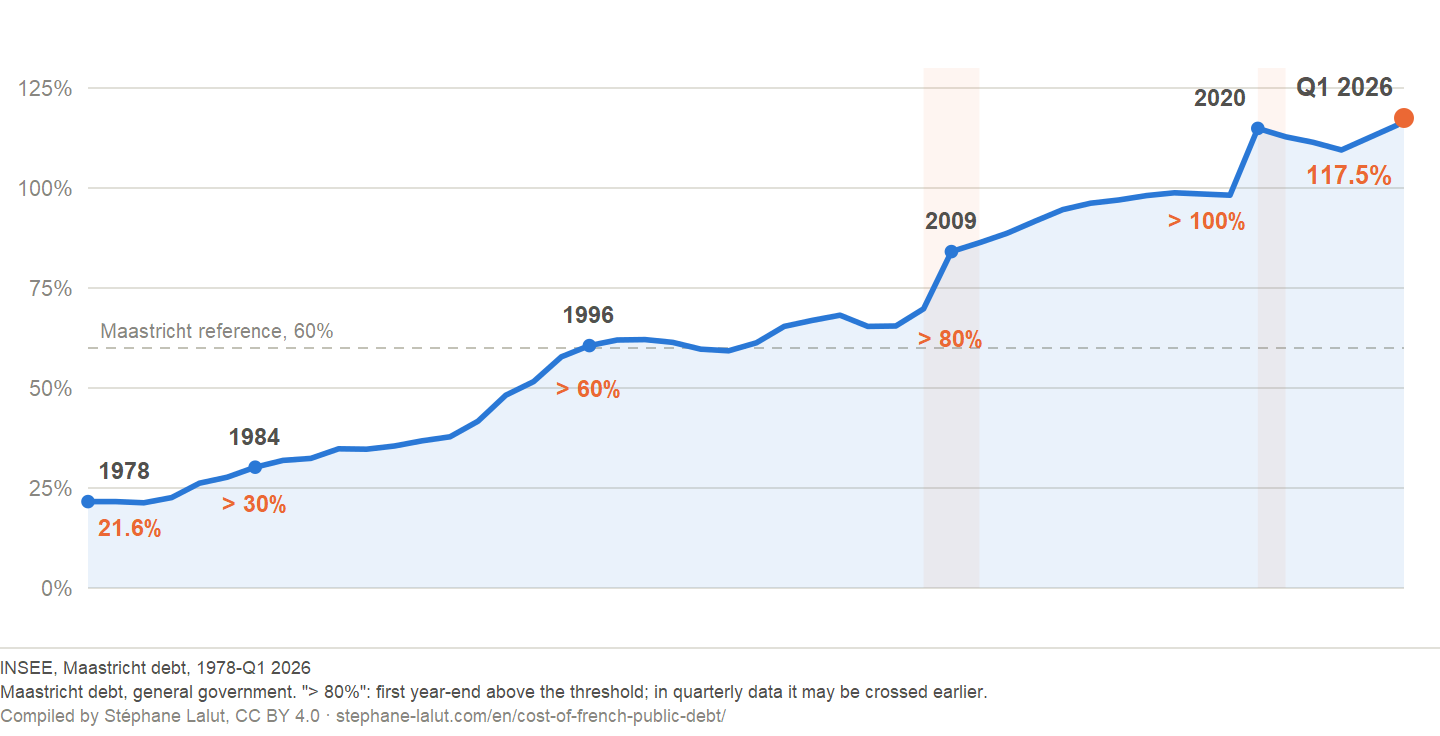
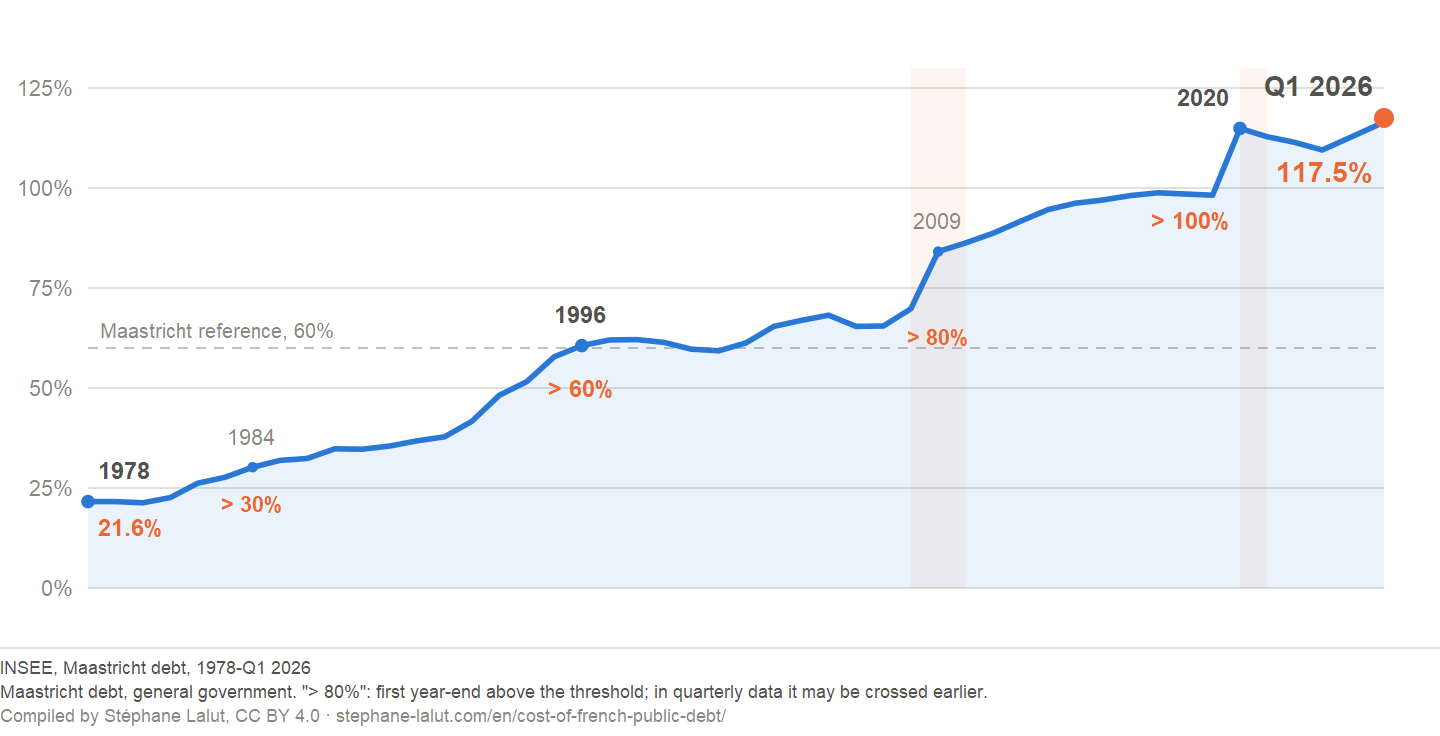
style(dette): lot deterministe de la direction artistique (onglets, jalons, marges)
Arbitrage PRO-20260928-DESIGN-GRAPHES-02 : ce qui se corrige sans voir,
la mission complete restant a ouvrir en session avec navigateur.

- ONGLETS : la regle horizontale structure la composition. Le cartouche,
  le bas des onglets et le repere de MAJ partagent la meme ligne de base ;
  l'onglet actif MORD la regle (margin-bottom -1px et bordure basse de la
  couleur du fond) au lieu de flotter au-dessus ; bordure allegee, moins
  d'effet « bouton ».
- FIGURE LONGUE : hierarchie des jalons. Dominent le depart, le seuil de
  Maastricht, le seuil de 100 % et le dernier point ; les deux autres
  restent lisibles en retrait. Le critere est le SEUIL, pas l'annee : il
  tient quand la serie s'allonge.
- Les bandes de crise passent APRES l'aplat : dessous, elles viraient au
  gris (vu au rendu).
- Marge droite : la valeur d'arrivee ne touche plus le bord.
- FIGURE DE MARCHE : ecart minimum garanti entre les deux etiquettes de
  fin, « au-dessus / en dessous » ne suffisant plus quand les series
  finissent proches.
- Echelle typographique commune, nommee une fois (TY_*) : les memes
  tailles qu'avant, mais en un seul endroit.

Aucune donnee, serie, date, source ni precaution n'est touchee.

diff --git a/assets/scss/_reutiliser.scss b/assets/scss/_reutiliser.scss
@@ -203,7 +203,11 @@
   background: color-mix(in srgb, var(--color-bg) 94%, transparent);
   backdrop-filter: blur(6px);
   -webkit-backdrop-filter: blur(6px);
-  border-bottom: 1px solid var(--color-accent-rule);
+  // La regle horizontale structure la composition : le cartouche, le bas des
+  // onglets et le reperede MAJ s'y alignent, et l'onglet actif la RECOUVRE d'un
+  // pixel (margin-bottom negatif + bordure basse de la couleur du fond). Sans
+  // cela l'onglet flotte au-dessus de sa ligne -- defaut signale le 28/09.
+  border-bottom: 1px solid var(--color-rule-medium);
   font-family: var(--font-sans);
 }
 .dossier-dette__barre {
@@ -211,12 +215,14 @@
   align-items: flex-end;
   flex-wrap: wrap;
   gap: 0.3rem 1rem;
-  padding-top: 0.3rem;
+  padding-top: 0.35rem;
 }
 .dossier-dette__titre {
   // Pastille pleine, bleu marine, texte blanc (auteur, 28/09) : le dossier se
   // nomme lui-meme d'un coup d'oeil, au lieu de se lire comme une sur-legende.
   flex: 0 0 auto;
+  align-self: flex-end;
+  margin-bottom: 0.4rem;   // meme ligne de base optique que le bas des onglets
   padding: 0.22rem 0.6rem;
   border-radius: 4px;
   background: var(--color-accent);
@@ -238,10 +244,10 @@
 .dossier-dette__volet { margin: 0; }
 .dossier-dette__onglet {
   display: block;
-  padding: 0.35rem 0.85rem 0.4rem;
+  margin-bottom: -1px;     // l'onglet mord la regle au lieu de la survoler
+  padding: 0.35rem 0.85rem 0.45rem;
   border: 1px solid transparent;
-  border-bottom: none;
-  border-radius: 6px 6px 0 0;
+  border-radius: 5px 5px 0 0;
   color: var(--color-accent);
   text-decoration: none;
   font-size: 0.9rem;
@@ -254,11 +260,9 @@ a.dossier-dette__onglet:hover { background: var(--color-accent-faint); }
 a.dossier-dette__onglet:focus-visible { outline: 2px solid var(--color-pivot); outline-offset: 2px; }
 .dossier-dette__volet.is-actif .dossier-dette__onglet {
   background: var(--color-bg-elevated);
-  border-color: var(--color-accent-rule);
+  border-color: var(--color-rule-medium);
+  border-bottom-color: var(--color-bg-elevated);  // la regle est « mangee » ici
   color: var(--color-text);
-  // le trait plein de l'onglet actif mord sur la bordure de la barre : c'est ce
-  // qui fait lire « onglet » plutôt que « bouton ».
-  box-shadow: 0 1px 0 0 var(--color-bg-elevated);
 }
 .dossier-dette__role {
   display: block;
@@ -268,9 +272,9 @@ a.dossier-dette__onglet:focus-visible { outline: 2px solid var(--color-pivot); o
 // Date de mise à jour : rouge, discrète mais immanquable ; son libellé diffère
 // selon le volet (donnée publiée / mise à jour éditoriale), voir le shortcode.
 .dossier-dette__maj {
-  align-self: center;
+  align-self: flex-end;
   margin-left: auto;
-  padding-bottom: 0.35rem;
+  padding-bottom: 0.5rem;   // pose sur la meme ligne de base que les onglets
   font-family: var(--font-mono);
   font-size: 0.86rem;
   font-weight: 700;

diff --git a/scripts/update_dette_insee.py b/scripts/update_dette_insee.py
@@ -382,6 +382,11 @@ COL_DETTE = "#2a78d6"   # palette dataviz slot 1 (validee)
 COL_INTER = "#eb6834"   # slot 2
 INK, INK2, MUTED, GRID, AXIS = "#0A0A0E", "#52514e", "#898781", "#e1e0d9", "#c3c2b7"
 FONT = "system-ui, -apple-system, Segoe UI, sans-serif"
+# Echelle typographique COMMUNE aux quatre figures (arbitrage du 28/09) : une
+# seule definition, pour que les figures forment une famille et non une
+# collection. Les tailles restent celles deja en place -- ce qui change, c'est
+# qu'elles sont nommees en un seul endroit.
+TY_TITRE, TY_AXE, TY_ANNOT, TY_VALEUR, TY_MINEUR = 13, 11, 12, 15, 11
 
 
 def _x(t: float, t0: float, t1: float) -> float:
@@ -897,14 +902,19 @@ def build_svg_marche(apparent: dict, marche: dict, lang: str = "fr") -> str:
     e.append('<path d="%s" fill="none" stroke="%s" stroke-width="2.4" '
              'stroke-linecap="round" stroke-linejoin="round"/>' % (_line_path(pa), COL_INTER))
 
-    # Libelles de fin : la courbe la plus haute prend le sien au-dessus.
+    # Libelles de fin : la courbe la plus haute prend le sien au-dessus. Ecart
+    # MINIMUM garanti entre les deux : quand les deux series finissent proches,
+    # « au-dessus » et « en dessous » ne suffisent plus a les separer.
+    ECART_MIN = 26.0
     haut_m = marche[last] >= apparent[last]
     for serie, pts, col, cle, en_haut in (
             (marche, pm, INK2, "marche", haut_m),
             (apparent, pa, COL_INTER, "apparent", not haut_m)):
         px, py = pts[-1]
         e.append('<circle cx="%.1f" cy="%.1f" r="4" fill="%s"/>' % (px, py, col))
-        dy = -9 if en_haut else 17
+        ecart = abs(pm[-1][1] - pa[-1][1])
+        marge = max(0.0, (ECART_MIN - ecart) / 2.0)
+        dy = (-9 - marge) if en_haut else (17 + marge)
         e.append('<text x="%.1f" y="%.1f" font-size="12" fill="%s">'
                  '<tspan font-weight="600">%s</tspan> %s%s</text>'
                  % (px + 8, py + dy, col, _esc(L[cle]), num(serie[last]), L["pct"]))
@@ -932,7 +942,7 @@ def build_svg_longue(annuel: dict, pct_courant: float, label_courant: str,
     U = L["unite"]
     pts = [(float(a), annuel[a]) for a in ans] + [(float(ans[-1]) + 0.25, pct_courant)]
     w, h = 720, 320
-    ml, mr, mt, mb = 44, 18, 34, 26
+    ml, mr, mt, mb = 44, 28, 34, 26   # mr : la valeur d'arrivee ne touche plus le bord
     x0, x1 = pts[0][0], pts[-1][0]
     ymax = 130.0
 
@@ -968,8 +978,10 @@ def build_svg_longue(annuel: dict, pct_courant: float, label_courant: str,
              % (ml + 6, Y(60) - 5, FONT, MUTED,
                 _esc("référence Maastricht, 60 %" if lang == "fr"
                      else "Maastricht reference, 60%")))
-    e += bandes            # fond : avant l'aire et la courbe
+    # Les bandes passent APRES l'aplat : dessous, elles viraient au gris (vu au
+    # rendu le 28/09). Elles restent derriere la courbe, qui domine.
     e.append('<path d="%s" fill="%s" fill-opacity="0.10"/>' % (aire, COL_DETTE))
+    e += bandes
     e.append('<path d="%s" fill="none" stroke="%s" stroke-width="2.8" '
              'stroke-linejoin="round"/>' % (ligne, COL_DETTE))
     # valeur courante en pastille, dans l'angle haut-gauche : la courbe y est
@@ -981,13 +993,19 @@ def build_svg_longue(annuel: dict, pct_courant: float, label_courant: str,
     # l'aire. Elle resout aussi le chevauchement : les etiquettes composees
     # (« 30 % en 1984 ») se touchaient des que deux reperes etaient proches,
     # parce que leur largeur ne dependait pas de leur ecart.
+    # HIERARCHIE (arbitrage du 28/09) : six jalons de meme poids font une frise,
+    # pas une lecture. Dominent : le depart, le seuil de Maastricht, le seuil de
+    # 100 % (l'annee sanitaire) et le dernier point. Les deux autres restent
+    # lisibles, en retrait. Le critere est le SEUIL, pas l'annee : il tient donc
+    # quand la serie s'allonge.
+    MAJEURS = (60, 100)
     reperes = [(float(ans[0]), annuel[ans[0]], str(ans[0]),
-                nb(annuel[ans[0]]) + U, "start")]
+                nb(annuel[ans[0]]) + U, "start", True)]
     for s in (30, 60, 80, 100):
         an = seuils[s]
-        reperes.append((float(an), annuel[int(an)], str(an), "> %d%s" % (s, U), "middle"))  # « > » : seuil franchi, pas valeur du point (relecture 28/09)
+        reperes.append((float(an), annuel[int(an)], str(an), "> %d%s" % (s, U), "middle", s in MAJEURS))  # « > » : seuil franchi, pas valeur du point (relecture 28/09)
     reperes.append((pts[-1][0], pct_courant, label_courant,
-                    nb(pct_courant) + U, "end"))
+                    nb(pct_courant) + U, "end", True))
 
     # Anti-collision : deux reperes proches voient leurs etiquettes se toucher,
     # et le cas se produit par construction a la fin de la serie -- le dernier
@@ -996,30 +1014,33 @@ def build_svg_longue(annuel: dict, pct_courant: float, label_courant: str,
     # l'etiquette de tout repere dont le suivant est a moins de 95 px. Le
     # premier garde son ancrage : le replier le sortirait du cadre.
     espacees = []
-    for i, (xv, yv, date, pct, anchor) in enumerate(reperes):
+    for i, (xv, yv, date, pct, anchor, majeur) in enumerate(reperes):
         if 0 < i < len(reperes) - 1:
             if X(reperes[i + 1][0]) - X(xv) < 95:
                 anchor = "end"
-        espacees.append((xv, yv, date, pct, anchor))
+        espacees.append((xv, yv, date, pct, anchor, majeur))
     reperes = espacees
 
-    for xv, yv, date, pct, anchor in reperes:
+    for xv, yv, date, pct, anchor, majeur in reperes:
         px, py = X(xv), Y(yv)
         dernier = xv == reperes[-1][0]
         e.append('<circle cx="%.1f" cy="%.1f" r="%s" fill="%s"/>'
-                 % (px, py, "5" if dernier else "3.4",
+                 % (px, py, "5" if dernier else ("3.4" if majeur else "2.6"),
                     COL_INTER if dernier else COL_DETTE))
         dx = 5 if anchor == "start" else (-5 if anchor == "end" else 0)
         e.append('<text x="%.1f" y="%.1f" font-family="%s" font-size="%d" '
-                 'font-weight="700" fill="%s" text-anchor="%s">%s</text>'
-                 % (px + dx, py - 11, FONT, 13 if dernier else 12, INK2, anchor, date))
+                 'font-weight="%d" fill="%s" text-anchor="%s">%s</text>'
+                 % (px + dx, py - 11, FONT,
+                    TY_VALEUR - 1 if dernier else (TY_ANNOT if majeur else TY_MINEUR),
+                    700 if majeur or dernier else 500,
+                    INK2 if majeur or dernier else MUTED, anchor, date))
         # Le pourcentage doit etre SOUS la courbe, pas a une distance fixe du
         # point : la ou la pente est forte -- 2009, 2020 -- la ligne replonge
         # dans le texte quelques pixels plus loin. On prend donc le point le
         # plus bas de la courbe sur la LARGEUR REELLE de l'etiquette, et on se
         # pose en dessous. Mesure a l'ecran le 20/09 : « 80 % » etait traverse
         # par la courbe.
-        corps = 13 if dernier else 12
+        corps = TY_VALEUR - 1 if dernier else (TY_ANNOT if majeur else TY_MINEUR)
         larg = 0.58 * corps * len(pct)
         tx = px + dx
         gx0 = tx if anchor == "start" else (tx - larg if anchor == "end"
